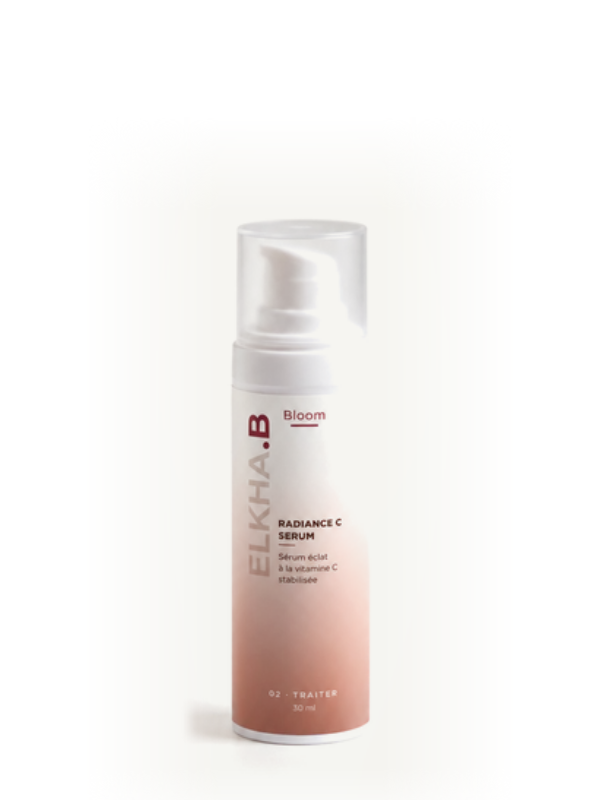
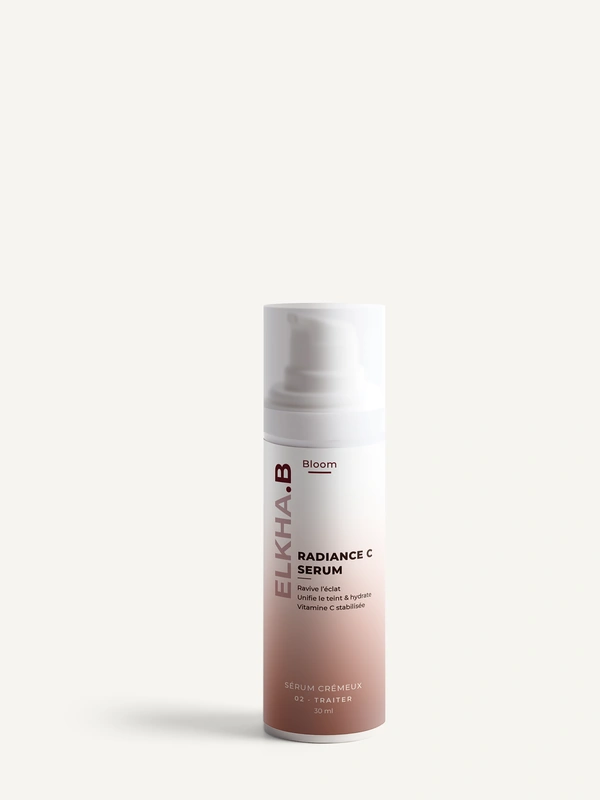
Add files via upload

Changed region(s): [[0.36, 0.25, 0.66, 0.9375], [0.21, 0.875, 0.33, 0.9375]]

diff --git a/accueil-engine.js b/accueil-engine.js
@@ -136,8 +136,8 @@
   + ".eba-up{font-size:13.5px;font-weight:400;line-height:1.75;color:#2a2723;margin:18px 0 0}"
   + ".eba-uprix{font-size:13px;font-weight:500;margin:20px 0 0}"
   + ".eba-ubtn{align-self:flex-start;margin-top:26px}"
-  // la photo des produits se fond dans le fond du site (bords adoucis), le texte est sur la carte sauge
-  + ".eba-uph{-webkit-mask-image:linear-gradient(90deg,transparent,#000 10%,#000 90%,transparent),linear-gradient(180deg,transparent,#000 8%,#000 92%,transparent);-webkit-mask-composite:source-in;mask-image:linear-gradient(90deg,transparent,#000 10%,#000 90%,transparent),linear-gradient(180deg,transparent,#000 8%,#000 92%,transparent);mask-composite:intersect}"
+  // photo de la une : coins arrondis, sans fondu (le mode sombre ne crée plus de rectangle)
+  + ".eba-uph{border-radius:12px}"
   + "@media (max-width:699px){.eba-une{grid-template-columns:1fr;margin-top:30px}.eba-uph{aspect-ratio:1 / 1}.eba-utx{padding:28px 24px 32px;text-align:center;align-items:center}#eb-acc .eba-un{font-size:19px}.eba-up{font-size:12.5px}.eba-ubtn{align-self:center}}"
   // ── 5. Par où commencer : les besoins
   + "#eb-acc .eba-st2{font-size:13.5px;font-weight:400;line-height:1.7;color:#2a2723;max-width:520px;margin:20px auto 0}"
@@ -146,14 +146,14 @@
   + ".eba-bes a:hover{background-position:100% 0}"
   + ".eba-tout{display:inline-block;margin-top:30px;font-size:10px;letter-spacing:.24em;font-weight:600;text-transform:uppercase;border-bottom:1px solid #111;padding-bottom:4px}"
   // ── 6. Les soins phares : à l'échelle réelle, posés sur la même ligne
-  + ".eba-rang{display:grid;grid-auto-flow:column;grid-auto-columns:calc((100% - 4 * 22px) / 5);gap:22px;max-width:1120px;margin:40px auto 0;overflow-x:auto;scroll-snap-type:x mandatory;scrollbar-width:none;-webkit-overflow-scrolling:touch}"
+  + ".eba-rang{display:grid;grid-auto-flow:column;grid-auto-columns:calc((100% - 4 * 22px) / 5);gap:22px;max-width:1120px;margin:34px auto 0;padding:6px 14px 22px;overflow-x:auto;scroll-snap-type:x mandatory;scrollbar-width:none;-webkit-overflow-scrolling:touch}"
   + ".eba-rang::-webkit-scrollbar{display:none}"
   + ".eba-pc{display:block;scroll-snap-align:start;text-align:center;color:#111}"
-  + ".eba-pph{display:block;position:relative;aspect-ratio:3 / 4;overflow:hidden;max-width:300px;margin:0 auto}"
-  + ".eba-pph img{color:transparent;display:block;position:absolute;inset:0;width:100%;height:100%;object-fit:contain;object-position:50% 93%;opacity:0;transition:transform .4s ease}"
+  + ".eba-pph{display:block;position:relative;aspect-ratio:3 / 4;overflow:hidden;max-width:300px;margin:0 auto;border-radius:12px;background:#f5f4f0;border:1px solid #fff;box-shadow:0 6px 18px rgba(40,25,20,.10);transition:transform .4s ease}"
+  + ".eba-pph img{color:transparent;display:block;position:absolute;inset:0;width:100%;height:100%;object-fit:cover;object-position:50% 50%;opacity:0}"
   + ".eba-pph img.pret{opacity:1}"
   + ".eba-pph img.brut{opacity:1;-webkit-mask-image:linear-gradient(90deg,transparent,#000 14%,#000 86%,transparent),linear-gradient(transparent,#000 8%,#000 92%,transparent);-webkit-mask-composite:source-in;mask-image:linear-gradient(90deg,transparent,#000 14%,#000 86%,transparent),linear-gradient(transparent,#000 8%,#000 92%,transparent);mask-composite:intersect}"
-  + ".eba-pc:hover .eba-pph img{transform:translateY(-3px)}"
+  + ".eba-pc:hover .eba-pph{transform:translateY(-3px)}"
   + ".eba-pg{font-size:8.5px;letter-spacing:.28em;font-weight:600;margin:10px 0 6px;text-transform:uppercase}"
   + ".eba-pg.bloom{color:#c58b74}.eba-pg.balance{color:#7d8f66}"
   + "#eb-acc .eba-pn{font-size:12px;letter-spacing:.14em;text-transform:uppercase;font-weight:700;margin:0 0 6px;line-height:1.35}"
@@ -174,7 +174,7 @@
   + ".eba-fl button:disabled{opacity:.3;cursor:default}"
   + "@media (max-width:899px){.eba-bes{grid-template-columns:repeat(3,1fr)}}"
   + "@media (max-width:699px){.eba-bes{grid-template-columns:1fr 1fr;gap:8px;margin-top:28px}.eba-bes a{min-height:86px;font-size:10px;letter-spacing:.14em;padding:16px 8px}"
-  +   ".eba-rang{grid-auto-columns:44%;gap:10px;margin:28px -16px 0;padding:0 16px;scroll-padding:0 16px}"
+  +   ".eba-rang{grid-auto-columns:44%;gap:10px;margin:22px -16px 0;padding:6px 16px 22px;scroll-padding:0 16px}"
   +   ".eba-rout{grid-auto-columns:76%}.eba-fl{display:none}}"
   // ── 8. Elles ont choisi ELKHA.B : photos des clientes, toutes au même cadrage
   + ".eba-ugc{display:grid;grid-template-columns:repeat(4,1fr);gap:12px;max-width:1120px;margin:40px auto 0}"
@@ -516,17 +516,28 @@
   
     // photos des soins phares déjà préparées (fond du site, même échelle) : elles s'affichent tout de suite, sans calcul
     var PRETES = {
-      'file_000000000e1481f585b2ee37b40be0d3.png': 'https://elkhabskincare.github.io/elkhab-site/accueil-phare-radiance-c-serum.webp',
-      'Lumi-Veil_B2_Flacon.png': 'https://elkhabskincare.github.io/elkhab-site/accueil-phare-lumi-veil-b2.webp',
-      'file_00000000c27082109ec53e33d47ac1b1.png': 'https://elkhabskincare.github.io/elkhab-site/accueil-phare-luminescence-nuit.webp',
-      'balance-cellular-reveal-flacon-site-v6.png': 'https://elkhabskincare.github.io/elkhab-site/accueil-phare-cellular-reveal.webp',
-      'balance-bright-control-flacon-site-v6.png': 'https://elkhabskincare.github.io/elkhab-site/accueil-phare-bright-control.webp'
+      'file_000000000e1481f585b2ee37b40be0d3.png': 'https://elkhabskincare.github.io/elkhab-site/accueil-phare-radiance-c-serum.webp?v=2',
+      'Lumi-Veil_B2_Flacon.png': 'https://elkhabskincare.github.io/elkhab-site/accueil-phare-lumi-veil-b2.webp?v=2',
+      'file_00000000c27082109ec53e33d47ac1b1.png': 'https://elkhabskincare.github.io/elkhab-site/accueil-phare-luminescence-nuit.webp?v=2',
+      'balance-cellular-reveal-flacon-site-v6.png': 'https://elkhabskincare.github.io/elkhab-site/accueil-phare-cellular-reveal.webp?v=2',
+      'balance-bright-control-flacon-site-v6.png': 'https://elkhabskincare.github.io/elkhab-site/accueil-phare-bright-control.webp?v=2'
     };
     root.querySelectorAll('.eba-pph img[data-h]').forEach(function(img){
       var nom = brute(img).split('/').pop(), prete = PRETES[nom];
       if(!prete) return retravailler(img);   // une nouvelle photo : préparée sur place, comme avant
       img.onerror = function(){ img.onerror = null; img.classList.remove('pret'); retravailler(img); };
       img.loading = 'eager'; img.src = prete; img.classList.add('pret');
+    });
+    // photos des routines Bloom : nouveaux packagings sur le fond du site (comme les routines Balance)
+    var ROUTINES_PRETES = {
+      'routine-teint-protection-carrousel.png': 'https://elkhabskincare.github.io/elkhab-site/accueil-routine-teint-protection.webp?v=7',
+      'routine-hydratation-v2.png': 'https://elkhabskincare.github.io/elkhab-site/accueil-routine-hydratation.webp?v=7'
+    };
+    root.querySelectorAll('.eba-rc img').forEach(function(img){
+      var ancienne = img.getAttribute('src') || '', prete = ROUTINES_PRETES[brute(img).split('/').pop().split('?')[0]];
+      if(!prete) return;
+      img.onerror = function(){ img.onerror = null; img.src = ancienne; };
+      img.src = prete;
     });
     // flèches des rangées qui défilent (routines sur ordinateur)
     root.querySelectorAll('.eba-fl').forEach(function(fl){
